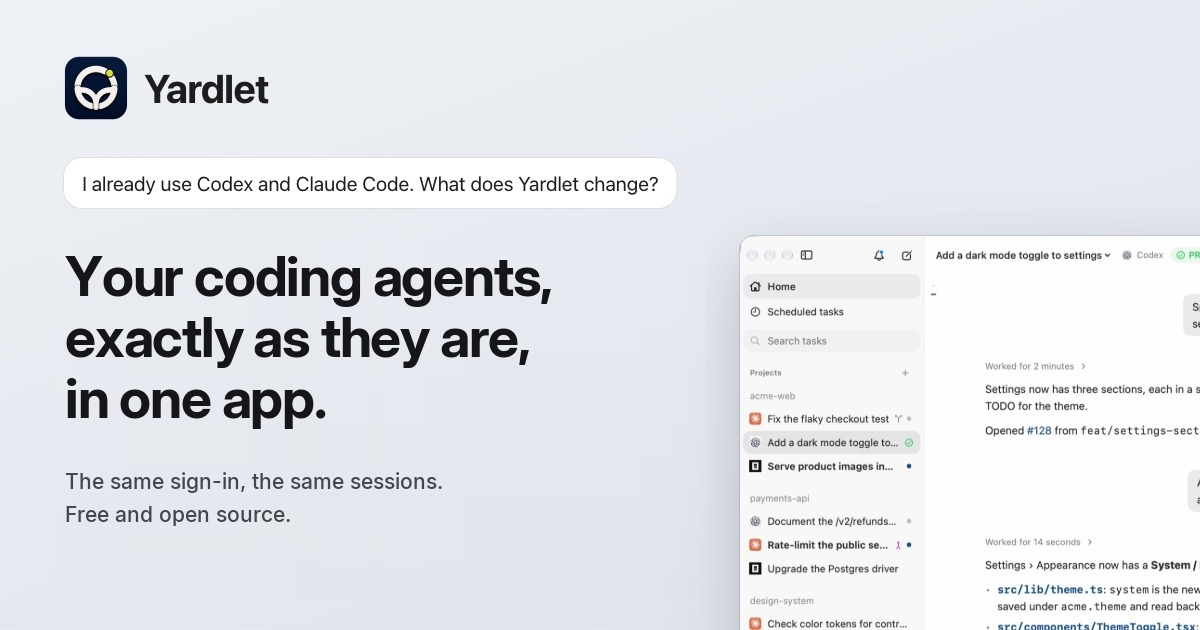
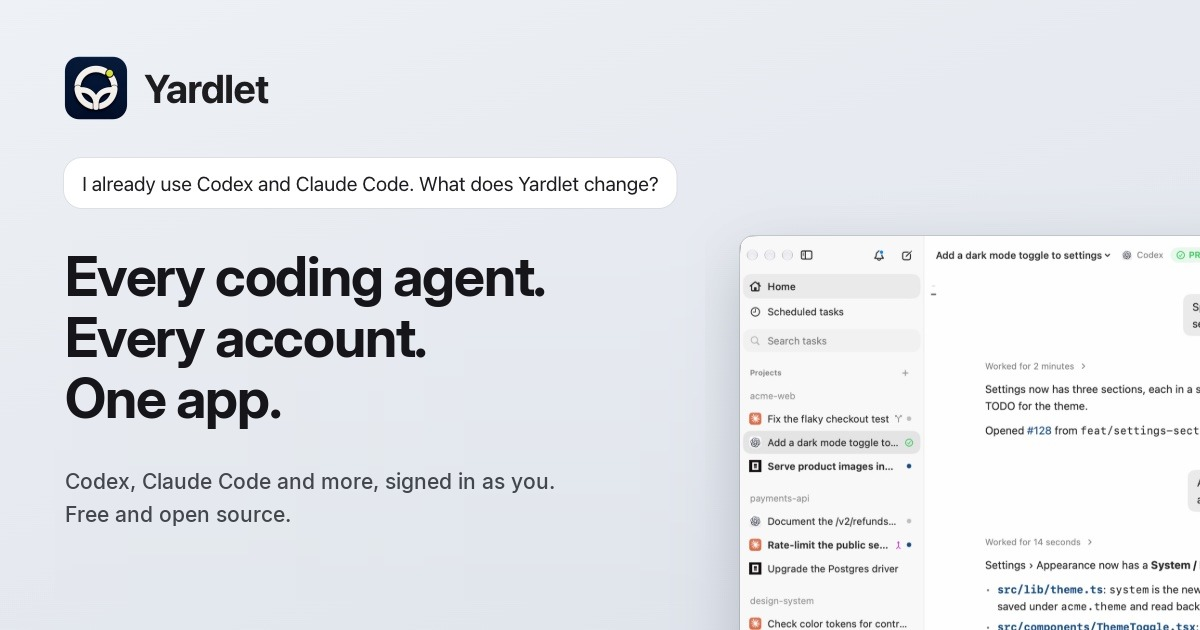
Lead with every agent and every account: the headline reads "Every coding agent. Every account. One app.", the line under it names Codex and Claude Code and choosing the account with room left, the share image follows, and the accounts section comes second, right after it

Changed region(s): [[0.0308, 0.3921, 0.4625, 0.6937], [0.0308, 0.754, 0.4625, 0.7841]]

diff --git a/index.html b/index.html
@@ -12,12 +12,12 @@
 <meta property="og:type" content="website">
 <meta property="og:site_name" content="Yardlet">
 <meta property="og:url" content="https://yardlet.app/">
-<meta property="og:title" content="Yardlet: the app for the coding agents you already use">
-<meta property="og:description" content="Codex, Claude Code and other agent CLIs, exactly as they are, in one app: the same sign-in, the same sessions. Free and open source.">
+<meta property="og:title" content="Yardlet: every coding agent, every account, one app">
+<meta property="og:description" content="Run Codex, Claude Code and any other coding agent with the sign-in you already have, and pick the account with room left for each task. Free and open source.">
 <meta property="og:image" content="https://yardlet.app/screens/og.jpg">
 <meta property="og:image:width" content="1200">
 <meta property="og:image:height" content="630">
-<meta property="og:image:alt" content="Yardlet: your coding agents, exactly as they are, in one app. A Codex task is open in its window.">
+<meta property="og:image:alt" content="Yardlet: every coding agent, every account, one app. A Codex task is open in its window.">
 <meta name="twitter:card" content="summary_large_image">
 <meta name="twitter:image" content="https://yardlet.app/screens/og.jpg">
 <link rel="canonical" href="https://yardlet.app/">
@@ -122,11 +122,11 @@
           <p class="group">yardlet.app</p>
           <ul>
             <li><a class="task" href="#what"><svg viewBox="0 0 16 16" aria-hidden="true"><rect x="1.75" y="2.75" width="12.5" height="10.5" rx="2.25"/><path d="M5.75 2.75v10.5"/></svg>What Yardlet is</a></li>
+            <li><a class="task" href="#accounts"><svg viewBox="0 0 16 16" aria-hidden="true"><circle cx="8" cy="5.75" r="2.75"/><path d="M2.75 14c.6-2.6 2.7-4 5.25-4s4.65 1.4 5.25 4"/></svg>Every account's limits</a></li>
             <li><a class="task" href="#together"><svg viewBox="0 0 16 16" aria-hidden="true"><path d="M2.25 5.25h9.5m-2.5-2.5 2.5 2.5-2.5 2.5M13.75 10.75h-9.5m2.5-2.5-2.5 2.5 2.5 2.5"/></svg>Agents that work together</a></li>
             <li><a class="task" href="#agents"><svg viewBox="0 0 16 16" aria-hidden="true"><path d="M8 1.75 14.25 5 8 8.25 1.75 5zM1.75 8 8 11.25 14.25 8M1.75 11 8 14.25 14.25 11"/></svg>Any agent, same controls</a></li>
             <li><a class="task" href="#approvals"><svg viewBox="0 0 16 16" aria-hidden="true"><path d="M2.5 3.25h11v7.5H8l-3.25 2.5v-2.5H2.5z"/><path d="M5.25 6.25h5.5M5.25 8.25h3.5"/></svg>Approvals in your words</a></li>
             <li><a class="task" href="#review"><svg viewBox="0 0 16 16" aria-hidden="true"><path d="M8 2.25v6M5 5.25h6M5 12.75h6"/></svg>Review, then merge</a></li>
-            <li><a class="task" href="#accounts"><svg viewBox="0 0 16 16" aria-hidden="true"><circle cx="8" cy="5.75" r="2.75"/><path d="M2.75 14c.6-2.6 2.7-4 5.25-4s4.65 1.4 5.25 4"/></svg>Every account's limits</a></li>
             <li><a class="task" href="#browser"><svg viewBox="0 0 16 16" aria-hidden="true"><circle cx="8" cy="8" r="6.25"/><path d="M1.75 8h12.5M8 1.75c1.75 1.9 2.6 4 2.6 6.25S9.75 12.35 8 14.25C6.25 12.35 5.4 10.25 5.4 8S6.25 3.65 8 1.75z"/></svg>A browser for agents</a></li>
             <li><a class="task" href="#connectors"><svg viewBox="0 0 16 16" aria-hidden="true"><path d="M5.5 1.75v3M10.5 1.75v3M3.75 4.75h8.5v3a4.25 4.25 0 0 1-8.5 0zM8 12v2.25"/></svg>Connectors for every agent</a></li>
             <li><a class="task" href="#phone"><svg viewBox="0 0 16 16" aria-hidden="true"><rect x="4.25" y="1.75" width="7.5" height="12.5" rx="1.75"/><path d="M7 12h2"/></svg>From your phone</a></li>
@@ -159,11 +159,11 @@
             <svg class="chev" viewBox="0 0 16 16" aria-hidden="true"><path d="m4.5 6.25 3.5 3.5 3.5-3.5"/></svg></summary>
           <ul>
             <li><a href="#what">What Yardlet is</a></li>
+            <li><a href="#accounts">Every account's limits</a></li>
             <li><a href="#together">Agents that work together</a></li>
             <li><a href="#agents">Any agent, same controls</a></li>
             <li><a href="#approvals">Approvals in your words</a></li>
             <li><a href="#review">Review, then merge</a></li>
-            <li><a href="#accounts">Every account's limits</a></li>
             <li><a href="#browser">A browser for agents</a></li>
             <li><a href="#connectors">Connectors for every agent</a></li>
             <li><a href="#phone">From your phone</a></li>
@@ -191,9 +191,9 @@
         <article class="turn" id="what" aria-labelledby="what-title">
           <p class="ask"><span class="sr-only">You: </span>I already use Codex and Claude Code. What does Yardlet change?</p>
           <div class="reply">
-            <h1 id="what-title">Your coding agents, exactly&nbsp;as&nbsp;they&nbsp;are, in&nbsp;one&nbsp;app.</h1>
-            <p class="lead">Yardlet is free and open source. It starts Codex, Claude Code and other agent CLIs with the
-              sign&#8209;in and session history they already have, and leaves them as they were when you stop.</p>
+            <h1 id="what-title">Every coding agent. Every account. One&nbsp;app.</h1>
+            <p class="lead">Run Codex, Claude Code and any other coding agent with the sign&#8209;in you already have, and
+              pick the account with room left for each task. Free and open source.</p>
 
             <div class="approve-box">
             <section class="approve" aria-labelledby="get-title">
@@ -202,7 +202,7 @@
                 <div>
                   <h2 id="get-title">Install Yardlet?</h2>
                   <p><a class="nw" href="changelog.html">Version 0.11.6</a> · <span class="nw">macOS 15 or later</span> · <span class="nw">Apple silicon</span></p>
-                  <p>No Yardlet account needed.</p>
+                  <p>No Yardlet account. Your agents keep their sign&#8209;ins.</p>
                 </div>
               </div>
               <p class="approve-cmd"><span class="sr-only">Or with Homebrew: </span><code>brew install --cask zzunkie/tap/yardlet</code><button class="copy" type="button" data-copy="brew install --cask zzunkie/tap/yardlet" hidden>Copy</button></p>
@@ -266,6 +266,28 @@
                   <span class="label">Pause</span>
                 </button>
               </figcaption>
+            </figure>
+          </div>
+        </article>
+
+        <article class="turn" id="accounts" aria-labelledby="accounts-title">
+          <p class="ask"><span class="sr-only">You: </span>Start this on whichever account has the most left.</p>
+          <div class="reply">
+            <h2 id="accounts-title">Every account, with its limits in&nbsp;view.</h2>
+            <p>Yardlet shows each account's session and weekly limits, with more than one account per provider. When an
+              agent starts a task or a subagent, it goes on the account with the most room left, and tasks started
+              together spread across your accounts. A saved task keeps the account it started on. Each agent runs with
+              the sign-in its CLI already has; Yardlet doesn't copy it or stand in for it.</p>
+            <figure class="attach">
+              <div class="sheet">
+                <picture>
+                  <source media="(max-width: 640px) and (prefers-color-scheme: dark)" srcset="screens/explore-accounts-phone-dark.png" width="870" height="799">
+                  <source media="(max-width: 640px)" srcset="screens/explore-accounts-phone-light.png" width="870" height="799">
+                  <source media="(prefers-color-scheme: dark)" srcset="screens/explore-accounts-dark.png" width="1620" height="950">
+                  <img src="screens/explore-accounts-light.png" width="1620" height="950" loading="lazy"
+                       alt="Settings, Accounts: two Codex and two Claude Code accounts, each with its five-hour and seven-day limits and when they reset.">
+                </picture>
+              </div>
             </figure>
           </div>
         </article>
@@ -370,28 +392,6 @@ Yardlet found these words in the person's own message in task 5C0A5E00-0000-0000
                 </picture>
               </div>
               <figcaption>The review pane goes through the task's changes file by file, beside pull request 128, ready to merge.</figcaption>
-            </figure>
-          </div>
-        </article>
-
-        <article class="turn" id="accounts" aria-labelledby="accounts-title">
-          <p class="ask"><span class="sr-only">You: </span>Start this on whichever account has the most left.</p>
-          <div class="reply">
-            <h2 id="accounts-title">Every account, with its limits in&nbsp;view.</h2>
-            <p>Yardlet shows each account's session and weekly limits, with more than one account per provider. When an
-              agent starts a task or a subagent, it goes on the account with the most room left, and tasks started
-              together spread across your accounts. A saved task keeps the account it started on. Each agent runs with
-              the sign-in its CLI already has; Yardlet doesn't copy it or stand in for it.</p>
-            <figure class="attach">
-              <div class="sheet">
-                <picture>
-                  <source media="(max-width: 640px) and (prefers-color-scheme: dark)" srcset="screens/explore-accounts-phone-dark.png" width="870" height="799">
-                  <source media="(max-width: 640px)" srcset="screens/explore-accounts-phone-light.png" width="870" height="799">
-                  <source media="(prefers-color-scheme: dark)" srcset="screens/explore-accounts-dark.png" width="1620" height="950">
-                  <img src="screens/explore-accounts-light.png" width="1620" height="950" loading="lazy"
-                       alt="Settings, Accounts: two Codex and two Claude Code accounts, each with its five-hour and seven-day limits and when they reset.">
-                </picture>
-              </div>
             </figure>
           </div>
         </article>
